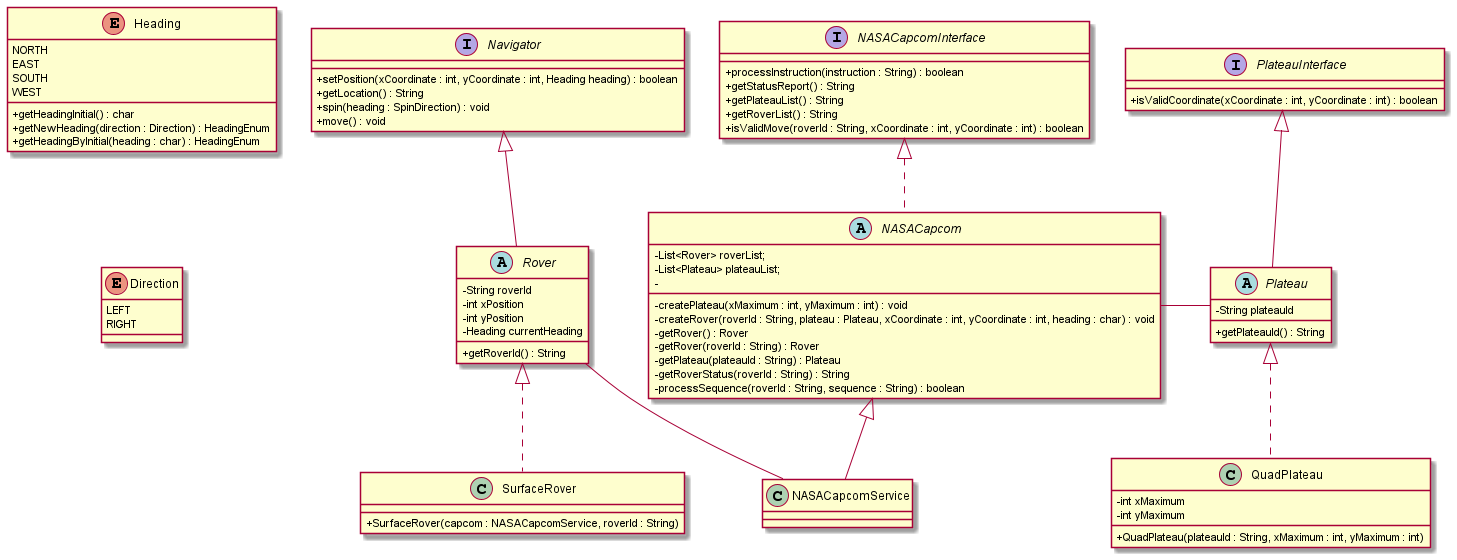
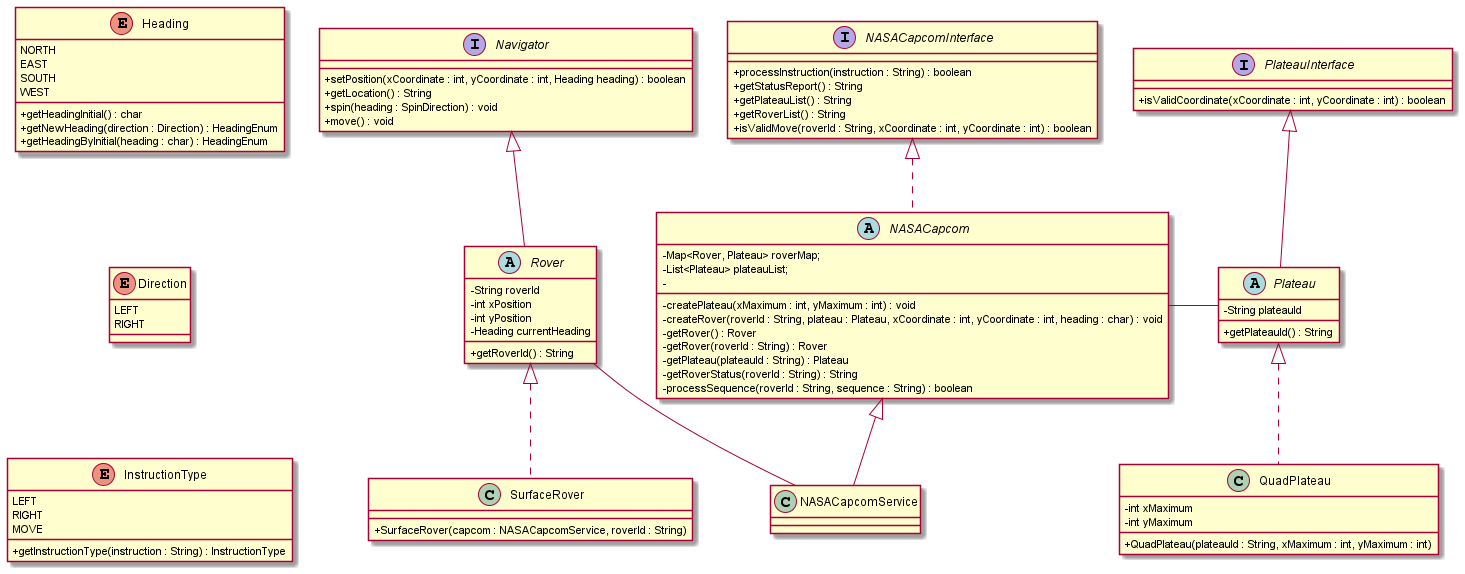
Added InstructionType enum, more Capcom tests and methods

diff --git a/src/main/java/com/probert999/marsrover/service/NASACapcomService.java b/src/main/java/com/probert999/marsrover/service/NASACapcomService.java
@@ -1,6 +1,7 @@
 package com.probert999.marsrover.service;
 
 import com.probert999.marsrover.model.HeadingEnum;
+import com.probert999.marsrover.model.InstructionTypeEnum;
 import com.probert999.marsrover.model.NASACapcom;
 
 public class NASACapcomService extends NASACapcom {
@@ -17,22 +18,32 @@ public class NASACapcomService extends NASACapcom {
 
     public void processInstruction(String instruction)
     {
-        // Check for create Quad Plateau
-        if (instruction.matches("[0-9] [0-9]"))
+        InstructionTypeEnum instructionType = InstructionTypeEnum.getInstructionType(instruction);
+
+        switch (instructionType)
         {
-            int xMaximum = Character.getNumericValue(instruction.charAt(0));
-            int yMaximum = Character.getNumericValue(instruction.charAt(2));
-            createPlateau(xMaximum, yMaximum);
+            case CREATE_PLATEAU -> {
+                int xMaximum = Character.getNumericValue(instruction.charAt(0));
+                int yMaximum = Character.getNumericValue(instruction.charAt(2));
+                createPlateau(xMaximum, yMaximum);
+                break;
+            }
+            case CREATE_ROVER -> {
+                int xCoordinate = Character.getNumericValue(instruction.charAt(0));
+                int yCoordinate = Character.getNumericValue(instruction.charAt(2));
+                HeadingEnum heading = HeadingEnum.getByInitial(instruction.charAt(4));
+                createRover(xCoordinate, yCoordinate, heading);
+                break;
+            }
+            case MOVE_ROVER -> {
+                break;
+            }
+            case INVALID_INSTRUCTION -> {
+
+            }
+
         }
 
-        // Check for create Rover
-        if (instruction.matches("[0-9] [0-9] [NSEW]"))
-        {
-            int xCoordinate = Character.getNumericValue(instruction.charAt(0));
-            int yCoordinate = Character.getNumericValue(instruction.charAt(2));
-            HeadingEnum heading = HeadingEnum.getByInitial(instruction.charAt(4));
-            createRover(xCoordinate, yCoordinate, heading);
-        }
     };
 
 

diff --git a/src/test/java/com/probert999/marsrover/InstructionTypeEnumTest.java b/src/test/java/com/probert999/marsrover/InstructionTypeEnumTest.java
@@ -1,0 +1,60 @@
+package com.probert999.marsrover;
+
+import com.probert999.marsrover.model.HeadingEnum;
+import com.probert999.marsrover.model.InstructionTypeEnum;
+import org.junit.jupiter.api.Test;
+import org.junit.jupiter.params.ParameterizedTest;
+import org.junit.jupiter.params.provider.Arguments;
+import org.junit.jupiter.params.provider.MethodSource;
+
+import java.util.stream.Stream;
+
+import static org.junit.jupiter.api.Assertions.assertEquals;
+
+public class InstructionTypeEnumTest {
+
+    @Test
+    public void shouldRecogniseACreatePlateauInstruction()
+    {
+        String instruction = "5 5";
+
+        assertEquals(InstructionTypeEnum.CREATE_PLATEAU, InstructionTypeEnum.getInstructionType(instruction));
+    }
+
+    @Test
+    public void shouldRecogniseACreateRoverInstruction()
+    {
+        String instruction = "5 5 N";
+
+        assertEquals(InstructionTypeEnum.CREATE_ROVER, InstructionTypeEnum.getInstructionType(instruction));
+    }
+
+    @ParameterizedTest
+    @MethodSource("validMoveInstructionTestData")
+    public void shouldRecogniseValidRoverMoveInstructionsFromTestData(String instruction)
+    {
+        assertEquals(InstructionTypeEnum.MOVE_ROVER, InstructionTypeEnum.getInstructionType(instruction));
+    }
+
+    public static Stream<Arguments> validMoveInstructionTestData() {
+        return Stream.of(
+                Arguments.of("L"),
+                Arguments.of("R"),
+                Arguments.of("M"),
+                Arguments.of("LL"),
+                Arguments.of("RR"),
+                Arguments.of("MM"),
+                Arguments.of("LMLMLMLMM"),
+                Arguments.of("MMRMMRMRRM")
+                );
+    }
+
+    @Test
+    public void shouldRecogniseAnInvalidInstruction()
+    {
+        String instruction = "5 L N";
+
+        assertEquals(InstructionTypeEnum.INVALID_INSTRUCTION, InstructionTypeEnum.getInstructionType(instruction));
+    }
+
+}

diff --git a/src/main/java/com/probert999/marsrover/model/InstructionTypeEnum.java b/src/main/java/com/probert999/marsrover/model/InstructionTypeEnum.java
@@ -1,0 +1,33 @@
+package com.probert999.marsrover.model;
+
+public enum InstructionTypeEnum {
+    CREATE_PLATEAU ("Create Plateau"),
+    CREATE_ROVER ("Create Rover"),
+    MOVE_ROVER("Move Rover"),
+    INVALID_INSTRUCTION("Invalid Instruction");
+
+    private final String instructionText;
+
+    InstructionTypeEnum(String instructionText) {
+        this.instructionText = instructionText;
+    }
+
+  public static InstructionTypeEnum getInstructionType(String instruction) {
+    InstructionTypeEnum instructionType = INVALID_INSTRUCTION;
+    if (instruction.matches("[0-9] [0-9]")) {
+      instructionType = CREATE_PLATEAU;
+    }
+
+    if (instruction.matches("[0-9] [0-9] [NSEW]")) {
+        instructionType = CREATE_ROVER;
+      }
+
+      if (instruction.matches("[LRM]+")) {
+          instructionType = MOVE_ROVER;
+      }
+
+      return instructionType;
+    }
+}
+
+

diff --git a/src/test/java/com/probert999/marsrover/NASACapcomTest.java b/src/test/java/com/probert999/marsrover/NASACapcomTest.java
@@ -42,5 +42,16 @@ public class NASACapcomTest {
         assertEquals("Rover-1 on Plateau-1 (5,5) at position and heading 0 0 N", capcom.getRoverList());
     }
 
+    @Test
+    public void shouldBeAbleToSpinRoverLeftFromInstruction()
+    {
+        NASACapcomService capcom = new NASACapcomService();
+
+        capcom.processInstruction("5 5");
+        capcom.processInstruction("0 0 N");
+        capcom.processInstruction("L");
+
+        assertEquals("Rover-1 on Plateau-1 (5,5) at position and heading 0 0 W", capcom.getRoverList());
+    }
 
 }

diff --git a/src/test/java/com/probert999/marsrover/HeadingEnumTest.java b/src/test/java/com/probert999/marsrover/HeadingEnumTest.java
@@ -3,8 +3,6 @@ package com.probert999.marsrover;
 import com.probert999.marsrover.model.DirectionEnum;
 import com.probert999.marsrover.model.HeadingEnum;
 
-import com.probert999.marsrover.model.QuadPlateau;
-import org.junit.Assert;
 import org.junit.jupiter.api.Test;
 import org.junit.jupiter.params.ParameterizedTest;
 import org.junit.jupiter.params.provider.Arguments;

diff --git a/src/main/java/com/probert999/marsrover/model/NASACapcom.java b/src/main/java/com/probert999/marsrover/model/NASACapcom.java
@@ -47,4 +47,10 @@ public abstract class NASACapcom implements NASACapcomInterface {
     }
     return roverList;
   }
+
+  private InstructionTypeEnum getInstructionType(String instruction)
+  {
+    return InstructionTypeEnum.CREATE_PLATEAU;
+  }
+
 }
